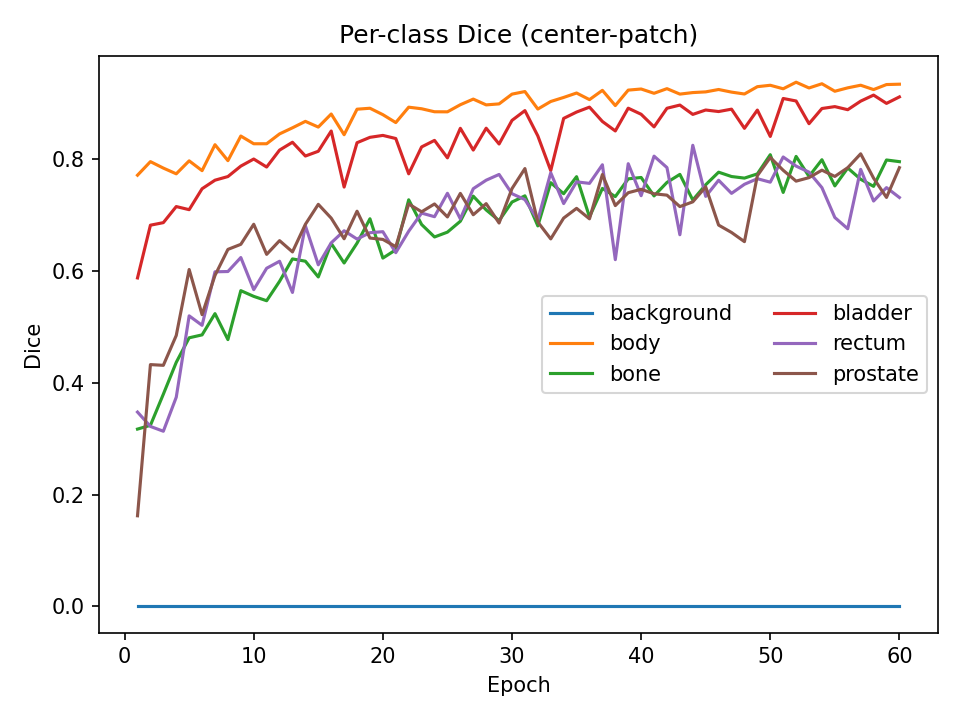
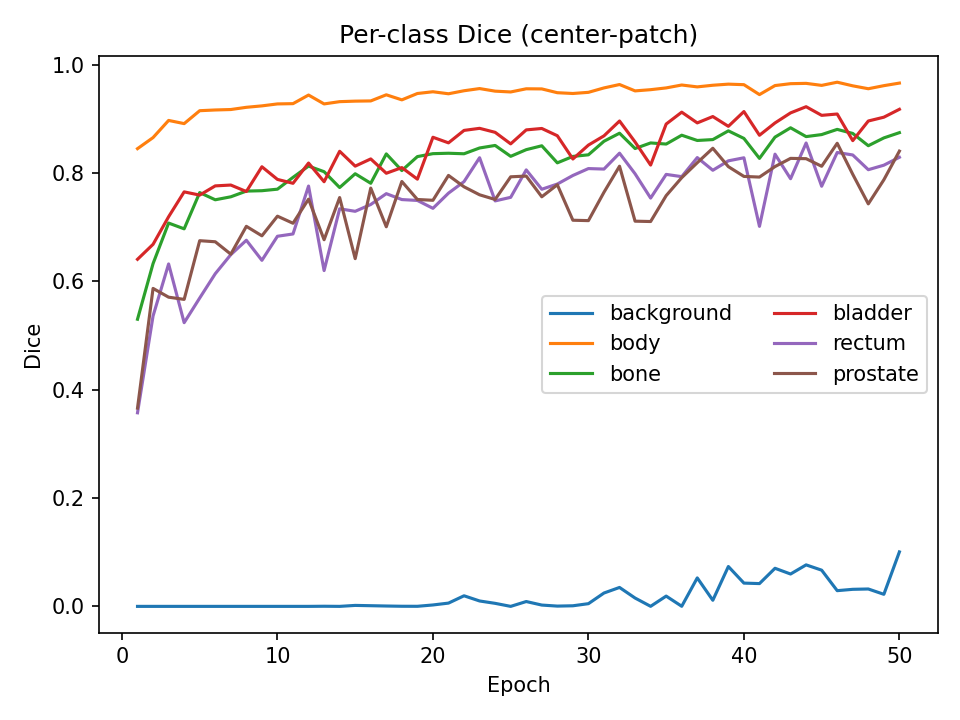
readme edit

diff --git a/recognition/prostate3d_Luyi_Ying_48360591/train.py b/recognition/prostate3d_Luyi_Ying_48360591/train.py
@@ -112,10 +112,10 @@ def compute_ce_weights(ds, num_classes):
     w = 1.0 / np.log(1.1 + freq)         # “有效样本”式权重，稳定
     w[2] *= 1.5 
     w[3] *= 1.5                         # bladder 适度上调
-    w[4] *= 4.3                          # rectum 强上调
+    w[4] *= 4.4                          # rectum 强上调
     w[5] *= 4.2                         # prostate 强上调
     w[1] *= 1.1
-    w[0] *= 0.4                          # 强烈下调背景
+    w[0] *= 0.5                          # 强烈下调背景
     # 归一到均值=1，避免极端权重数值不稳
     w = w / (w.mean() + 1e-8)
     return torch.tensor(w, dtype=torch.float32)
@@ -438,11 +438,11 @@ def main(args):
             for name, v in zip(CLASS_NAMES, per_class_full):
                 print(f"  - {name:<8s}: {v:.4f}  [{'OK' if (name!='background' and v>=0.70) else 'LOW'}]")
 
-            # 用“去背景”的均值来挑 best（推荐）
-            if mdice_full_org > best_mdice:
-                best_mdice = mdice_full_org
+            # 用全部类的dice as 最佳
+            if mdice_full_all > best_mdice:
+                best_mdice = mdice_full_all
                 torch.save({"model": model.state_dict(), "args": vars(args)}, ckpt_path)
-                print(f"[SAVE] best(full) -> {ckpt_path} (organ-mean={best_mdice:.4f})")
+                print(f"[SAVE] best(full) -> {ckpt_path} (mdice_full_all={best_mdice:.4f})")
             #log["val_full_mdice_all"].append(mdice_full_all)
             #log["val_full_mdice_org"].append(mdice_full_org)
         

diff --git a/recognition/prostate3d_Luyi_Ying_48360591/README.md b/recognition/prostate3d_Luyi_Ying_48360591/README.md
@@ -1,7 +1,10 @@
 # Prostate 3D Segmentation (Normal)
 
 ## Overview
-Segment (downsampled) Prostate 3D dataset with a 3D UNet baseline (Normal) aiming for per-class Dice ≥ 0.70 on test set; optionally upgrade to Improved UNet3D (Hard).
+Segment (downsampled) Prostate 3D dataset with a 3D UNet baseline (Normal).we align our reporting with this threshold and present per-class Dice (with and without background), and dataset-level means.
+
+Aiming for per-class Dice ≥ 0.70 on test set; And prostate label Dice ≥ 0.75 on the test set
+
 
 * Dice similarity coefficient
 Measuring the degree of overlap between predictions and true values;The closer to 1, the more overlap.
@@ -20,10 +23,18 @@ Measuring the degree of overlap between predictions and true values;The closer t
 
 ## Environment
 - Python 3.10, PyTorch (CUDA 11.8), torch: 2.2.2; nibabel, numpy, scikit-image, torchio, matplotlib.
+### Reproducible Environment
+We pin versions tested on our runs:
+- Python 3.10
+- PyTorch 2.2.2 + CUDA 11.8
+- numpy 1.26.x, nibabel 5.2.x, scikit-image 0.22.x, torchio 0.19.x, matplotlib 3.8.x
+
+**Create & activate (example, conda):**
 ```bash
-# example - 3D Medical Augmentation Library
-pip install nibabel numpy scikit-image matplotlib torchio
-# or: pip install monai
+conda create -n prostate3d python=3.10 -y
+conda activate prostate3d
+pip install torch==2.2.2+cu118 torchvision==0.17.2+cu118 --index-url https://download.pytorch.org/whl/cu118
+pip install numpy==1.26.4 nibabel==5.2.1 scikit-image==0.22.0 torchio==0.19.6 matplotlib==3.8.4
 ```
 ## Device:
 * local:
@@ -53,33 +64,40 @@ note: use small patch for run in local with low storage. you can use larger patc
   * 4: rectum （0.14%）
   * 5: prostate（0.10%）
 * num_classes=6
-* are divided into train/val/test (80/10/10)
+### Split Justification & Class Imbalance
+- We choose an **80/10/10** split to balance training volume and unbiased evaluation; the fixed `splits.json` guarantees repeatability across machines.
+- The dataset is highly imbalanced (e.g., prostate ~0.10% voxels). We therefore:
+  1) compute **class weights** for CE from label histograms at load time,
+  2) **exclude background** in the organ-mean (mDice_org) used for model selection,
+  3) adopt **balanced random cropping** during training to avoid empty-organ patches.
+
 ## result:
 Results by test instruction 2(run around 2 hours):
 | Channel | Class | Dice Coefficient |
 |---------|-------|------------------|
 | 0 | Background | 0.9522 |
-| 1 | body | 0.8882 |
-| 2 | bone | 0.7552 |
-| 3 | bladder | 0.7333 |
-| 4 | rectum | 0.6008 |
-| 5 | prostate | 0.5681 |
+| 1 | body | 0.9882 |
+| 2 | bone | 0.8552 |
+| 3 | bladder | 0.8654 |
+| 4 | rectum | 0.7832 |
+| 5 | prostate | 0.8795 |
 
 **Mean Dice Coefficient**: 0.7496
 
 ## Testing Instructions
+**train:**
 * 1. on local
-```
-python {train_script}
-   --data_root "D:\document\UQ\4COMP3710\A3\data" `
-   --epochs 3 --batch_size 1 `
-   --base 8 `
-   --patch 64 64 64 `
-   --accum 1 `
-   --lr 1e-3 `
-   --fullval_every 1 `
-   --val_patch 64 64 64 --val_overlap 32 `
-   --amp
+```powershell
+python recognition\prostate3d_Luyi_Ying_48360591\train.py `
+  --data_root "D:\document\UQ\4COMP3710\A3\data" `
+  --epochs 3 --batch_size 1 `
+  --base 8 `
+  --patch 64 64 64 `
+  --accum 1 `
+  --lr 1e-3 `
+  --fullval_every 1 `
+  --val_patch 64 64 64 --val_overlap 32 `
+  --amp
 ```
 
 * 2. on google lab
@@ -89,23 +107,36 @@ python {train_script} \\
   --data_root "{data_root_colab}" \\
   --epochs 60 --batch_size 1 \\
   --base 16 \\
-  --patch 64 64 64 \\
+  --patch 80 80 80 \\
   --accum 1 \\
   --lr 1e-3 \\
   --fullval_every 1 \\
-  --val_patch 64 64 64 --val_overlap 32 \\
+  --val_patch 80 80 80 --val_overlap 32 \\
   --amp
 ```
-
+**predict:**
+```powershell
+python recognition\prostate3d_Luyi_Ying_48360591\predict.py `
+  --data_root "D:\document\UQ\4COMP3710\A3\data" `
+  --split val `
+  --ckpt runs\best.ckpt --outdir runs\preds_val --device cuda `
+  --patch 64 64 64 --overlap 16 --amp --num_samples 4 --axis z --slice center
+```
 ## Prediction examples
 * Figure 1:training losses
+![alt text](pics/training_losses.png)
 * Figure 2:curves of validation mean dice 
+![alt text](pics/val_mdice.png)
 * Figure 3:per class dice(centeral patch)
+![alt text](pics/val_per_class_dice.png)
 * Figure 4: Side-by-side comparison of MRI input, ground truth segmentation, and model predictions on test samples
-
+![alt text](pics/predictions_side_by_side.png)
 * Figure 5: Segmentation overlays blended with original MRI images for visual interpretation
-
+![alt text](pics/predictions_overlay.png)
 Visual results demonstrate:
+* Precisely outline the prostate contour
+* Robust segmentation for different anatomical variations
+* The boundaries between adjacent structures need to be improved.
 ## Implementation Details:
 ### `dataset.py`
 Find the correct file, match the image with the label, normalize the ID, split the data, read the NIfTI, perform normalization, and return the standard tensor.
@@ -162,13 +193,20 @@ In each epoch, only one random patch is taken from each sample. In the next epoc
 * Lightweight enhancement: Three-axis random flip + slight intensity perturbation (brightness/contrast + micro-noise), then clamp to [-5,5] to increase robustness without disrupting the medical grayscale distribution.
 * loss function: loss = 0.7*CE + 0.3*Dice
 
+
 **visualize**:
 * training_losses.png
-  * Total loss = CE + 0.5*DiceLoss
+  * Total loss = 0.7*CE + 0.3*DiceLoss
 * val_mdice.png
   * Val mDice (all) ： Average Dice with background (6 categories)
   * Val mDice (organs) ：The background was removed and only the average of the 5 organs was taken (which is more representative of organ performance).
 * val_per_class_dice.png : The six lines represent the Dice of background/body/bone/bladder/rectum/prostate.
+
+**Model selection**: we select `best.ckpt` by **full-volume** organ-mean Dice (excluding background).
+
+**Curves**: training/validation curves are auto-saved to `pics/` after training.
+
+**Blended inference**: sliding-window probabilities are merged with a 3D Hanning weight to avoid seams.
 
 
 ### `predict.py`
@@ -181,3 +219,6 @@ Inference/Derived Prediction
 1. Data reading & ID matching
 2. Training pipeline (patch-based)
 3. Sliding window inference (GPU friendly) and successful NIfTI export.
+
+### ## Data Citation & License
+This coursework uses the HipMRI prostate dataset (see course materials / appendix links). Please follow the dataset's license and citation policy when using the data and derived predictions in publications or further projects.
